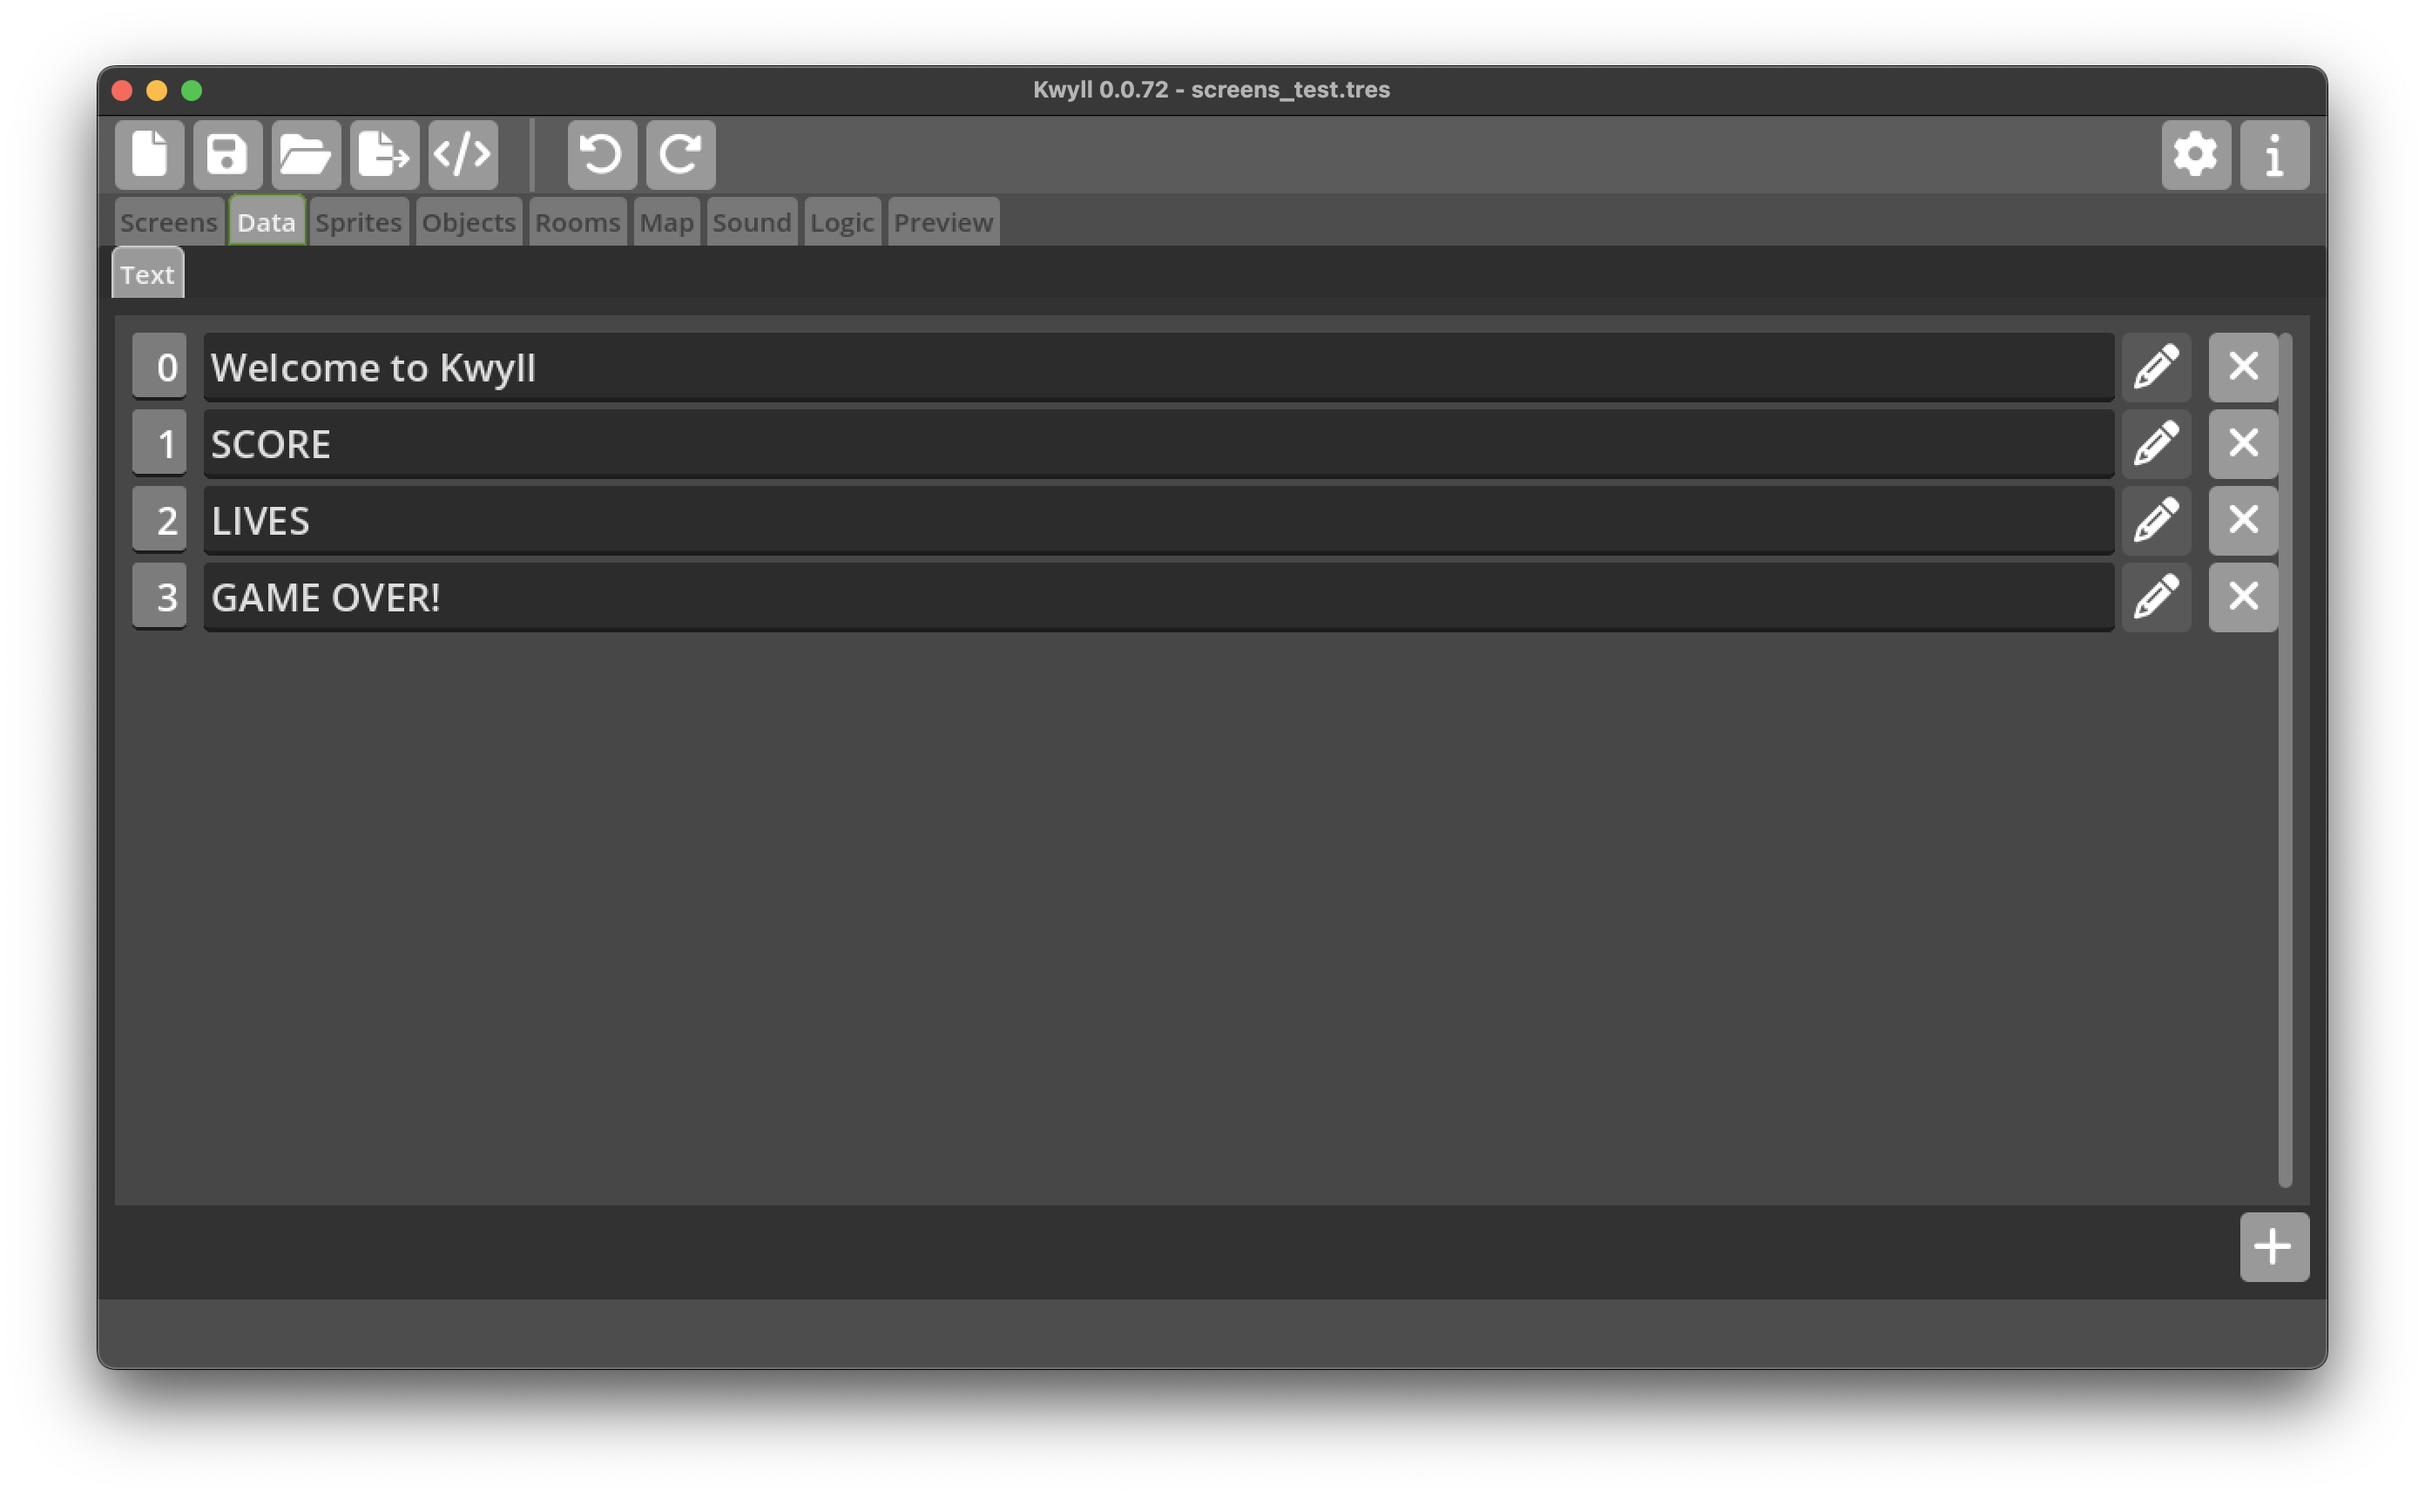
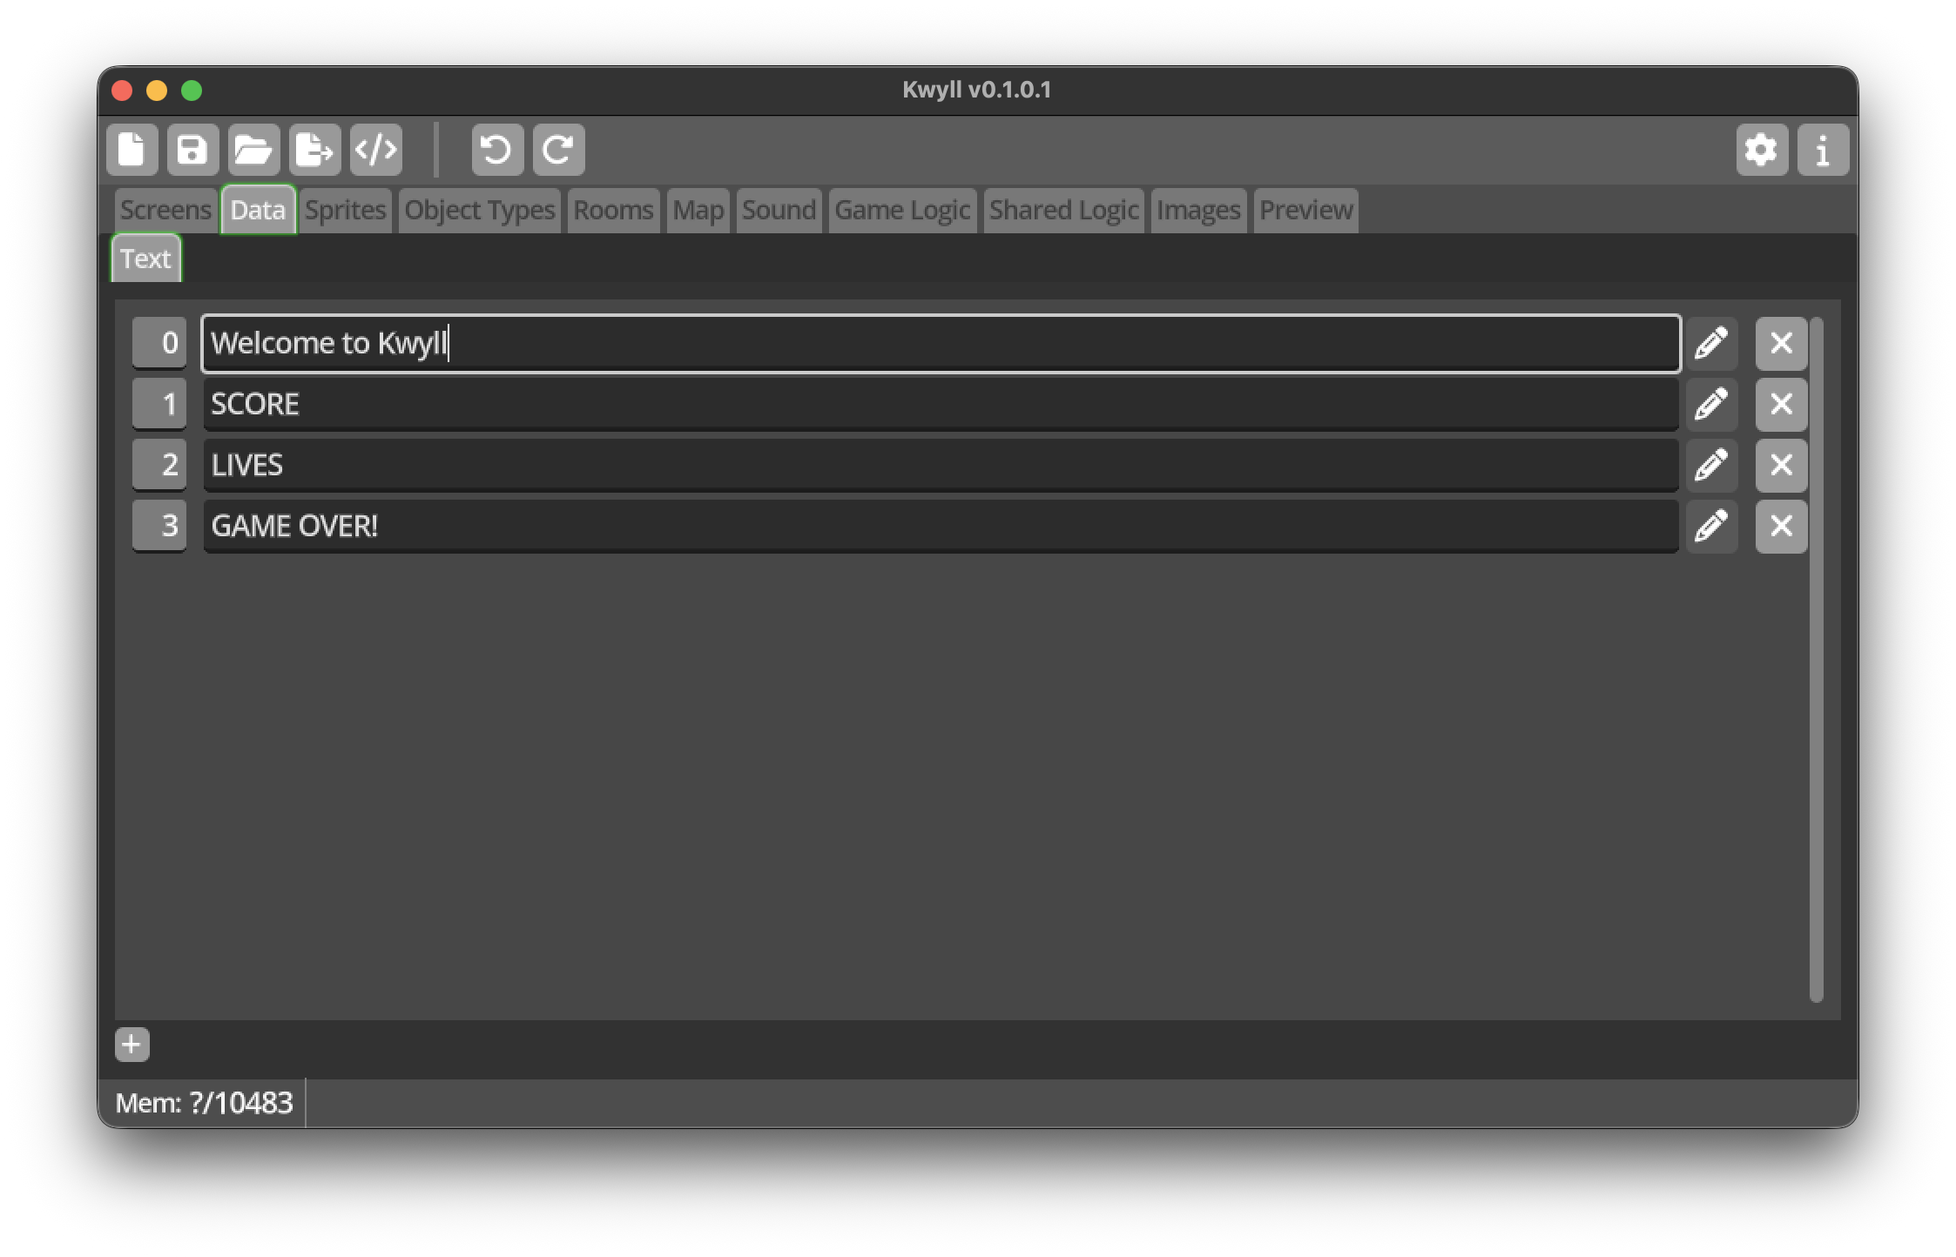
Add data and sprite editor and update some images.

Changed region(s): [[0.0312, 0.0312, 0.9662, 0.9661]]

diff --git a/docs/interface/screen_editor.md b/docs/interface/screen_editor.md
@@ -16,10 +16,11 @@ the <span style="color: blue;">Instruments List</span>, the
 
 This is where you can select, add and remove the various
 [screens](../introduction/terminology.md#screens) that you have in your game.
-The local toolbar below the list includes buttons to create a new screen,
-delete the currently selected screen, and duplicate the currently selected
-screen, to the left side. It also has a button to edit the screen properties to
-the right. 
+The toolbar below the list includes buttons on the left hand side to create a
+new screen, delete the currently selected screen, and duplicate the currently
+selected screen. And on the right hand side, it also has a button to edit the
+screen properties.
+ 
 
 <br style="clear:left"/>
 
@@ -58,6 +59,12 @@ Ink, Paper and Bright
   the screen tilemap unless replaced by painting attributes in the tilemap, or by
   assigning colours to tiles.
 
+Variables
+: In this section you can set the default values for any variables declared in the
+  logic for this screen. Each screen can have its own logic, and in that logic you
+  can declare a number of variables, they will be listed here for you to set the
+  initial value that will be assigned to them when the game starts or restarts.
+
 
 <br style="clear:right"/>
 
@@ -67,9 +74,10 @@ Ink, Paper and Bright
 
 This is where you can select, add and remove the various
 [Instruments](../introduction/terminology.md#instruments) defined in the
-currently selected screen. The local toolbar below the list includes buttons to
-create a new instrument and delete the currently selected instrument, to the
-left side. It also has a button to edit the instrument properties to the right. 
+currently selected screen. The toolbar below the list includes buttons on the
+left hand side to create a new instrument, delete the currently selected
+instrument, and duplicate the selected instrument. And on the right hand side,
+it also has a button to edit the instrument properties. 
 
 <br style="clear:left"/>
 
@@ -97,10 +105,9 @@ Size
   specified in terms of cells, each 8x8 pixels in size.
 
 Type
-: The type of the instrument. An instrument will display its Value in 
-  different ways depending on the type of instrument. A text instrument will display
-  a string from the strings list, an integer instrument will display a numerical 
-  value, and a tile instrument will show a single tile from the tileset.
+: The type of the instrument. An instrument will display its Value in different
+  ways depending on the type of instrument. See
+  [Instruments](../introduction/screens/instruments.md) for more information..
 
 Value
 : The initial value of the instrument, the meaning of the value depends on the
@@ -122,7 +129,7 @@ Color
 
 The *Assets Panel* provides access to assets that can be placed in the screen editor
 view in addition to [Instruments](../introduction/terminology.md#instruments). It is a
-common element used in more than one editor in Kwyll, and as such has its ow separate 
+common element used in more than one editor in Kwyll, and as such has its own separate 
 section of the documentation [here](./assets_panel.md). 
 
 
@@ -139,10 +146,10 @@ standard [Logic Editor](./logic_editor.md) component that is used to edit logic
 that applies to the current room, see
 [Logic](../introduction/terminology.md#logic) for more details.
 
-The Layout tab contains the screen layout editing tools. It consists of two parts, a 
-standard [Tilemap Editor](./tilemap_editor.md) component, and layered on top of it a
-specific set of editing features for Screens. The Tilemap Editor is documented 
-separately as a common component.
+The Layout tab contains the screen layout editing tools. It consists of two
+parts, a standard [Tilemap Editor](./tilemap_editor.md), and layered
+on top of it a specific set of editing features for Screens. 
+
 
 ### Layout
 
@@ -152,13 +159,13 @@ interactively placing screen elements such as
 [Instruments](../introduction/terminology.md#instruments) and the *Game
 Window*.
 
-An [Instrument](../introduction/terminology.md#instruments) is represented on the 
-grid as a yellow rectangle with a small triangle in the bottom right corner
-![Instrument](../assets/instrument.png){width="100px"}. You can click and drag the
-instrument on the grid, it will automatically conform to the grid cells, snapping
-to 8x8 increments. By carefully clicking on the small triangle in the corner, you can
-drag out the rectangle to change its size, again, it will automatically conform to 
-the grid.
+An [Instrument](../introduction/terminology.md#instruments) is represented on
+the grid as a yellow rectangle with a small triangle in the bottom right corner
+![Instrument](../assets/instrument.png){width="100px"}. You can click and drag
+the instrument on the grid, it will automatically snap to the grid cells of 8x8
+pixel increments. By carefully clicking on the small triangle in the corner,
+you can drag out the rectangle to change its size, again, it will automatically
+snap to the grid.
 
 If the screen being edited has the *Game Screen* flag set in the
 [properties](#screen-properties), a blue rectangle will show to represent the
@@ -168,7 +175,7 @@ fixed on all screens, the only way to modify the game window size is in the
 [Settings](./settings.md) dialog. However, the game window can be positioned
 independently on each screen it is used, so dragging the blue rectangle
 representing the game window works in much the same way as an *Instrument*, it
-will also conform to the grid as appropriate. 
+will also snap its position to the grid. 
 
 
 <br style="clear:left"/>

diff --git a/docs/interface/sprite_editor.md b/docs/interface/sprite_editor.md
@@ -1,3 +1,89 @@
 # Sprite Editor
 
 ![Sprite Editor](../assets/sprite_editor.png)
+
+The *Sprite Editor* is where you create your graphical masterpieces for use in
+your Kwyll game. It consists of three main areas, the <span style="color:
+green;">Sprite List</span>, the <span style="color: blue;">Sprite Sheets</span>
+list, and the <span style="color: red;">Bitmap Editor</span>.
+
+## Sprite List
+
+This section shows a thumbnail list of all the sprites in the currently selected
+sheet. It has buttons in the toolbar below to create a new sprite in the selected
+list, delete the currently selected sprite, and duplicate the currently selected
+sprite.
+
+
+## Sprite Sheets
+
+This section lists the different sprite sheets defined in your game. Each sheet
+has a fixed size for the sprites in it, so if you need different sized sprites in
+your game, you'll need to create multiple sheets. The toolbar below the list has
+buttons on the left to create a new sheet, and delete the currently selected sheet,
+as well as a button to edit the sprite sheet properties to the right.
+
+
+<br style="clear:left"/>
+
+### Sprite Sheet Properties
+
+![Sprite Sheet Properties](../assets/sprite_sheet_properties.png){align=right width=50%}
+
+The *Sprite Sheet Properties* dialog allows you to edit various properties of the selected
+sprite sheet. 
+
+Sheet Name
+: The name of the sprite sheet, give it a meaningful name to make your life easier.
+
+
+Sprite Size
+: The width and height of the sprites in this sheet, in increments of 8 pixels in each 
+  direction, up to 32x32.
+
+
+Flags
+: The "Mask" flag defines whether the sprites in this sprite sheet can have a mask defined.
+  This is used when the sprite is to be drawn using the "MASK" mode. If the sprites in a 
+  particular sheet are only going to be drawn using "LOAD", "OR", or "XOR" mode, disable this
+  flag to reduce wasted memory. See [Sprites](../introduction/objects/sprites.md#draw_modes) for more
+  information about draw modes.
+
+
+## Bitmap Editor
+
+This is where you draw your __Sprite__ images. It has a simple set of tools in the toolbox area, and
+a pixel grid that is the correct size for the selected __Sprite__.
+
+![Sprite Paint Tool](../assets/sprite_paint_tool.png){align=left width=10%}
+![Sprite Mask Tool](../assets/sprite_mask_tool.png){align=left width=10%}
+The two main tools, the paint roller and the mask, define which type of pixels you draw or delete. If
+the paint roller is selected, the left button paints a pixel, the right deletes it. If the mask tools
+is selected, the left button draws a mask pixel, which is shown as a grey/teal checker pattern, and the
+right button deletes the mask pixel. The area in the bitmap which is displayed with the checker pattern
+is where the background pixels will show through.
+
+<br style="clear:left"/>
+
+The remaining tools are, in order, left to right, top to bottom:
+
+Move
+: ![Sprite Move Tool](../assets/sprite_move_tool.png){align=left width=10%}
+  Selecting this tool and dragging on the bitmap will move the pixels and mask pixels, wrapping around 
+  when they go off an edge of the grid.
+
+<br style="clear:left"/>
+
+Mirror
+: ![Sprite Mirror Tool](../assets/sprite_mirror_tool.png){align=left width=10%}
+  This is not a mode tool, it has an immediate effect when clicked, it will flip the pixels and mask of
+  the __Sprite__ in the horizontal direction.
+
+<br style="clear:left"/>
+
+Flip
+: ![Sprite Flip Tool](../assets/sprite_flip_tool.png){align=left width=10%}
+  This is also an immedate effect tool, when clicked it will flip the pixels and mask of the __Sprite__
+  in the vertical direction.
+
+<br style="clear:left"/>

diff --git a/docs/introduction/objects/sprites.md b/docs/introduction/objects/sprites.md
@@ -13,6 +13,40 @@ Kwyll, it's just an image, it has no position, it isn't by default drawn
 to the screen anywhere, in order to get a Sprite onto the screen, it
 must be used by an __Object__.
 
+## Draw Modes
+
+When assigned to an __Object__, the object can choose which mode to use to
+draw the __Sprite__ to the screen, which is best depends on the particular
+use case in your game. The optons are:
+
+LOAD
+: The sprite is just placed into each 8x8 cell that it touches, completely
+  overwriting anything that might already be there in the 
+  [Tilemap](../backgrounds/tilemaps.md) or any other __Objects__.
+  This is normally only used if you know there will be no background where
+  the object is used.
+  This is the fastes sprite rendering mode.
+
+OR/XOR
+: These two modes combine the pixels of the __Sprite__ with those in the
+  background using bitwise OR and XOR operations. The result is that the 
+  background isn't completely wiped out in 8x8 blocks like LOAD mode, but
+  depending on the nature of the __Sprite__ and the tiled background, can 
+  result in objects becoming difficult to see.
+
+MASK
+: This requires that a __Sprite__ is defined with a "Mask" layer, see the
+  [Sprite Editor](../interface/sprite_editor.md) for details of creating 
+  mask layers. This mode clears a part of the background in a user defined
+  shape before drawing the sprite pixels into that space. It is the most
+  effective draw mode, resulting in well defined pixels that can be easily
+  distinguished from the background, but is the most costly in terms of 
+  both memory use, requiring additional data for each __Sprite__, and in
+  terms of performance.
+
+
+
+
 ## Planes
 
 When a __Sprite__ is drawn to the screen it is possible that there will be

diff --git a/docs/interface/data_editor.md b/docs/interface/data_editor.md
@@ -1,3 +1,19 @@
 # Data Editor
 
 ![Data Editor](../assets/data_editor.png)
+
+
+The *Data Editor* is where you can define text strings to be used in your game.
+The use of text strings is restricted to the
+[Instruments](../introduction/terminology.md#instruments) on a screen. To the
+left of a each string in the list is a number, this is the number to assign to
+the *Value* of a text instrument to display this string, or to use in the __Set
+Instrument Value__ node in logic.
+
+The *Data Editor* is simple, in the toolbar below the list is a single button to
+create a new string. In the list, each string is represented by a row, with the
+first column being the index, used to display the string, the string contents follow,
+and a button to delete the string.
+
+!!! note
+    The edit button is currently not operational, reserved for future functionality.
